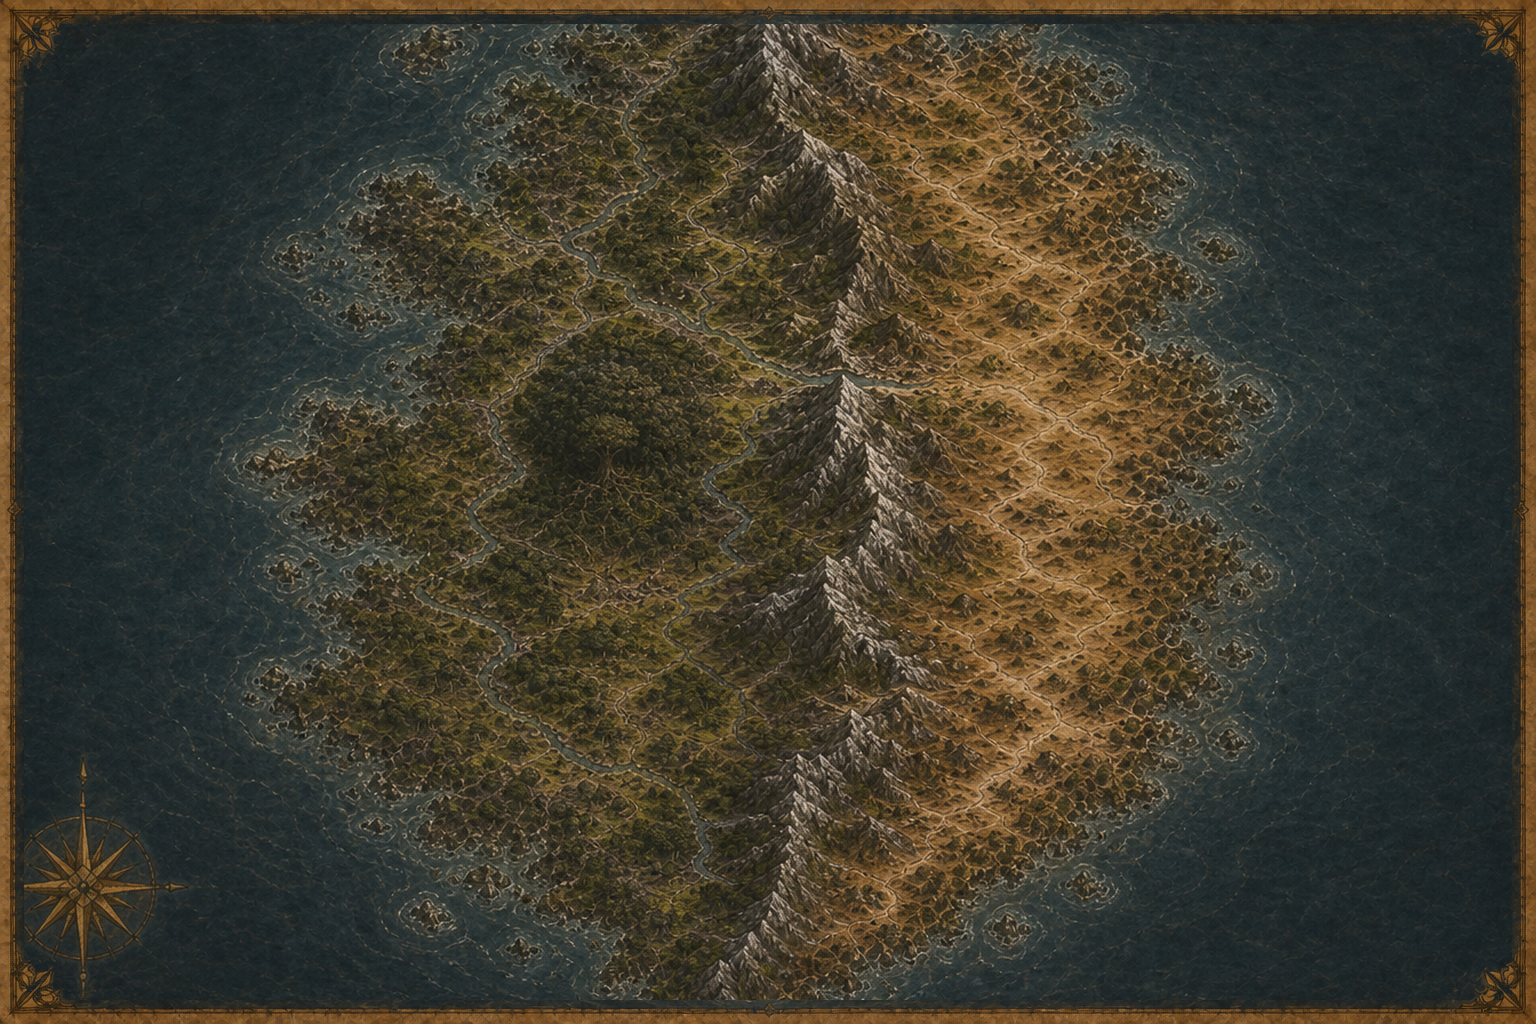
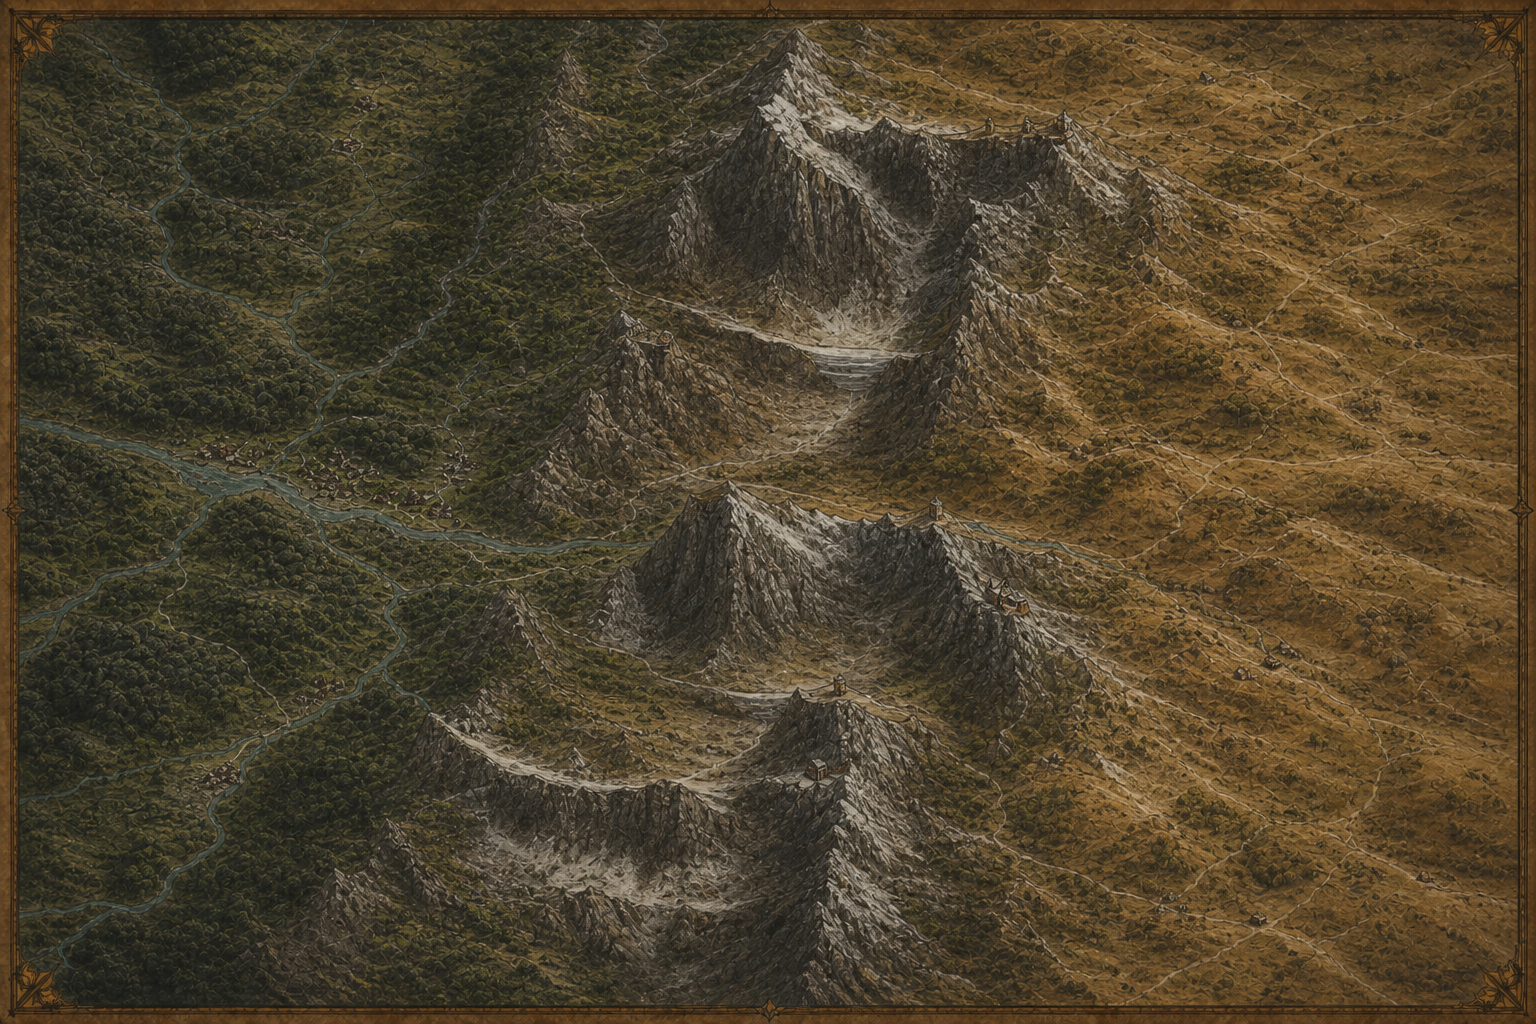
Paint distinct Sacred Core and Rain-Wall sheets

diff --git a/14 - Assets/Maps/build_prototype3_regions.py b/14 - Assets/Maps/build_prototype3_regions.py
@@ -1,11 +1,9 @@
 #!/usr/bin/env python3
-"""Build selected regional sheets as literal Prototype 3 master windows.
+"""Build the Strandoren regional windows from the Prototype 3 master.
 
-These four sheets previously drifted because image generation reinterpreted
-their geography, then looked zoomed and soft because small crops were
-enlarged. Each output is now a wide exact crop of its continent master,
-fitted to the atlas sheet with only a 1.14x resample so parent pixels stay
-legible. Do not use local close-up windows.
+Chart-run and West Water remain literal parent windows. Sacred Core and
+Rain-Wall are separate generated regional paintings and must not be
+overwritten by this script.
 """
 
 from __future__ import annotations
@@ -30,21 +28,8 @@ class Region:
 
 
 # Crop boxes are (left, top, right, bottom) in the 1536 x 1024 masters.
-# Every regional window is 1344 x 896 (3:2). That is most of the parent
-# sheet: enough focus to name a region, enough context to read as atlas
-# scale, and only a 1.14x fit onto the 1536 x 1024 output. Tighter crops
-# (local close-ups) are rejected because they look zoomed and go soft.
+# Each Strandoren window is 1344 x 896 (3:2), fitted 1.14x onto the sheet.
 REGIONS = (
-    Region(
-        "Sacred-Core-Atlas.png",
-        "Maiethorn-Atlas.png",
-        (28, 64, 1372, 960),
-    ),
-    Region(
-        "Rain-Wall-Atlas.png",
-        "Maiethorn-Atlas.png",
-        (104, 64, 1448, 960),
-    ),
     Region(
         "Chart-Run-Atlas.png",
         "Strandoren-Atlas.png",

diff --git a/14 - Assets/Maps/Map Generation Tooling.md b/14 - Assets/Maps/Map Generation Tooling.md
@@ -96,13 +96,13 @@ python3 "14 - Assets/Maps/build_prototype3_world.py"
 
 ### Prototype 3 regional rebuild workflow
 
-Regional sheets are **child views**, not independent inventions. Supply the selected parent master on every render and begin the subject with:
+Regional sheets should read as **the same atlas family**, inspired by the selected parent, not as duplicate continent crops. Supply the parent master plus a successful regional sheet (Old Crossing is the style match) and begin the subject with:
 
 ```
-Enlarge the named subregion from the supplied Prototype 3 continent master.
-Keep north up and west left. Preserve the parent's coast, watershed, river
-direction, wet/dry boundary, settlement density, and atlas hand. Add only
-local-scale detail required by the regional subject.
+Paint this named region in the same dark weather-forward portolan hand as
+the supplied regional sheet. Take coastline, watershed, wet/dry divide,
+and settlement density from the supplied continent master. Keep north up
+and west left. Do not copy the whole continent into the frame.
 ```
 
 | Region | Required parent reference |
@@ -116,15 +116,17 @@ local-scale detail required by the regional subject.
 | R7 Live Front | `prototype3/Heskoren-Atlas.png` |
 | R8 Waiting Vale | `prototype3/Heskoren-Atlas.png` |
 
-Four sheets that failed the visual parent-continuity check are now built as literal master enlargements rather than fresh generations:
+**Sacred Core and Rain-Wall** are generated regional paintings inspired by `prototype3/Maiethorn-Atlas.png` and styled to the other region sheets. They must remain **visibly different subjects**: forest heart with one exceptional Tree versus highland divide. Do not rebuild them as overlapping crops of the same continent sheet.
+
+**Chart-run and West Water** remain Strandoren parent windows:
 
 ```bash
 python3 "14 - Assets/Maps/build_prototype3_regions.py"
 ```
 
-The script records the parent filename and crop rectangle in each PNG. Sacred Core and Rain-Wall come directly from Maiethorn; Chart-run and West Water come directly from Strandoren. Each window is **1344 × 896** on the 1536 × 1024 master (atlas scale, 1.14× fit, no extra sharpening). Do not replace those four with independently generated scenes, and do not use local close-up crops: they read as zoomed-in and go soft.
+That script must not write Sacred Core or Rain-Wall.
 
-**Visual review gate.** Reject a regional render if it rotates/mirrors the parent, reverses a named river, adds text, introduces an exceptional Tree outside Sacred Core, or changes settlement scale. Reject a parent-window sheet if the crop is tighter than 1344 × 896 or needs more than a 1.2× resample. Reject Rain-Wall unless the divide is visibly made of irregular offset massifs, broad saddles, branching foothills, river-cut notches, and usable pass gaps. Match the selected set's dark teal weather, muted moss/umber land, iron-gall detail, and bronze frame.
+**Visual review gate.** Reject a regional render if it is the same composition as another sheet, copies a whole continent into the frame, rotates/mirrors the parent, reverses a named river, adds text, introduces an exceptional Tree outside Sacred Core, or changes settlement scale. Reject Rain-Wall unless the divide is visibly made of irregular offset massifs, broad saddles, branching foothills, river-cut notches, and usable pass gaps. Match the selected set's dark weather-forward portolan hand, muted moss/umber land, iron-gall detail, and bronze frame.
 
 **Interpolation remains non-canon.** Minor tributaries, unnamed roofs, exact paths, field divisions, forest edges, rocks, and weather decoration are rendering texture only. A generated detail enters canon only after it is reconciled and named in the vault.
 

diff --git a/00 - Core/Meta/Roadmap.md b/00 - Core/Meta/Roadmap.md
@@ -523,7 +523,7 @@ Ordinary-job characters who become structural pivots. Draw from offices 7.2–7.
 
 > Manual tally — update when checking boxes. (Story/Task counts, not epics.)
 
-- **Atlas follow-up:** 8 / 8 regional sheets rebuilt and visually reviewed ✅ **2026-09-01.** Sacred Core, Rain-Wall, Chart-run, and West Water are deterministic 1344 × 896 parent windows via `build_prototype3_regions.py` (atlas scale; local close-ups rejected). Region-parent provenance and the non-canon interpolation boundary are recorded on [[The Atlas Sheets]] and [[Map Generation Tooling]]. Thaeloren remains the only exceptional Tree. World book untouched.
+- **Atlas follow-up:** 8 / 8 regional sheets rebuilt and visually reviewed ✅ **2026-09-01.** Sacred Core and Rain-Wall are distinct generated Maiethorn-region paintings (Motherwood versus highland divide). Chart-run and West Water remain Strandoren parent windows via `build_prototype3_regions.py`. Non-canon interpolation boundary recorded on [[The Atlas Sheets]] and [[Map Generation Tooling]]. Thaeloren remains the only exceptional Tree. World book untouched.
 - **Epic 7 leftover — sick-Tree / guest-grove:** 4 / 4 tasks (100%) ✅ **2026-08-31.** [[The Mill-hold]] (Hands un-Hands; mill-race vs roots) · [[The First Bowl]] (guest-grove; two settings of one bowl). Lead road-end still a type. World book untouched.
 - **Pass two — verification:** 3 / 3 tasks of P2.1 (100%) ✅ **Story P2.1 complete 2026-08-31.** Later pass-two stories undecomposed. C-01 resolved; C-05 resolved in passing with the opening. **C-02 resolved 2026-08-31** by user-requested world-book rebuild. **C-06 resolved 2026-08-31** (Kumbaan "few or no Trees" hedge → no Tree).
 - **Epic 9 — Secrets & Canon:** 4 / 4 tasks of Story 9.1 (100%) ✅ **architecture done 2026-08-31.** Hub [[Revelation Architecture]] · [[Reveal Index]]. Clues [[The Uncoloured Intake]] · [[The Closed Lamp]]. Still alongside for new `reveals:`.

diff --git a/14 - Assets/Maps/The Atlas Sheets.md b/14 - Assets/Maps/The Atlas Sheets.md
@@ -88,12 +88,10 @@ No graft. No city. The wall is the climate.
 
 ## Regional rebuild review — 2026-09-01
 
-- All eight sheets use the dark, weather-forward Prototype 3 portolan hand, slate-teal water, and bronze frame.
-- **Continuity correction:** Sacred Core, Rain-Wall, Chart-run, and West Water were replaced with literal parent windows. Rebuild them with `build_prototype3_regions.py`.
-- **Scale correction:** those four are 1344 × 896 windows of the 1536 × 1024 masters (atlas scale, 1.14× fit, no extra sharpening). Local close-up crops are rejected; they looked zoomed-in and went soft.
+- All eight sheets use the dark, weather-forward Prototype 3 portolan hand and bronze frame.
+- **Sacred Core and Rain-Wall** are distinct generated region paintings inspired by Maiethorn, not two crops of the same continent sheet. Sacred Core is the inland Motherwood with Thaeloren as the sole exceptional Tree. Rain-Wall is the highland divide: offset massifs, saddles, foothills, river notches, pass gaps, wet west and dry east, and no exceptional Tree.
+- Chart-run and West Water remain Strandoren parent windows via `build_prototype3_regions.py`.
 - Old Crossing retains the two facing Old World shores. Chart-run runs east into its established estuary. West Water remains the sparse open-ocean face.
-- Sacred Core keeps Thaeloren as the sole exceptional Tree; every other grove or graft is an ordinary map mark.
-- Rain-Wall uses offset weathered massifs, broad saddles, branching foothills, river-cut notches, and pass gaps rather than a straight ridge.
 - Rain-Shadow remains the dry leeward country. Live Front keeps Harrow's rise, the ford, and three small downstream hearths. Waiting Vale stays behind the east-facing coast and does not show Harrow's canopy.
 - No labels, political borders, new named places, new powers, or canon claims were added.
 

diff --git a/00 - Core/Concept/Build Plan.md b/00 - Core/Concept/Build Plan.md
@@ -18,7 +18,7 @@ updated: 2026-09-01
 
 ## Active next
 
-**Atlas follow-up complete (2026-09-01).** Prototype 3 remains the selected master set. All eight regional sheets were rebuilt as label-free child views of Maiethorn, Strandoren, and Heskoren. Sacred Core, Rain-Wall, Chart-run, and West Water are reproducible 1344 × 896 parent windows (`build_prototype3_regions.py`) — atlas scale, not local close-ups. [[The Atlas Sheets]] and [[Map Generation Tooling]] record the contract. Incidental generated detail is non-canon. World book untouched.
+**Atlas follow-up complete (2026-09-01).** Prototype 3 remains the selected master set. Sacred Core and Rain-Wall are distinct generated region paintings inspired by Maiethorn (forest heart with one exceptional Tree versus highland divide), styled to the other atlas sheets. Chart-run and West Water remain Strandoren parent windows. [[The Atlas Sheets]] and [[Map Generation Tooling]] record the contract. Incidental generated detail is non-canon. World book untouched.
 
 **Leftovers 1 / 3 / 7 / 9 done (2026-08-31).** Conditions cross-link · climate/ecology · sick-Tree / guest-grove · revelation architecture. [[Roadmap#Epic 10 — Campaign|Epic 10]] Story 10.1 remains done — kit [[The Opening]], hub [[The Isolated Fall]]. Later campaign stories and remaining pass-two work stay undecomposed until asked. Epic R remains **closed**. Gate: [[Epic R Completion Gate 2026-08-31]]. Log: [[Contradictions]] (C-05 resolved in passing; **C-02** world-book rebuild; **C-06** Kumbaan Tree-hedge, 2026-08-31).
 
